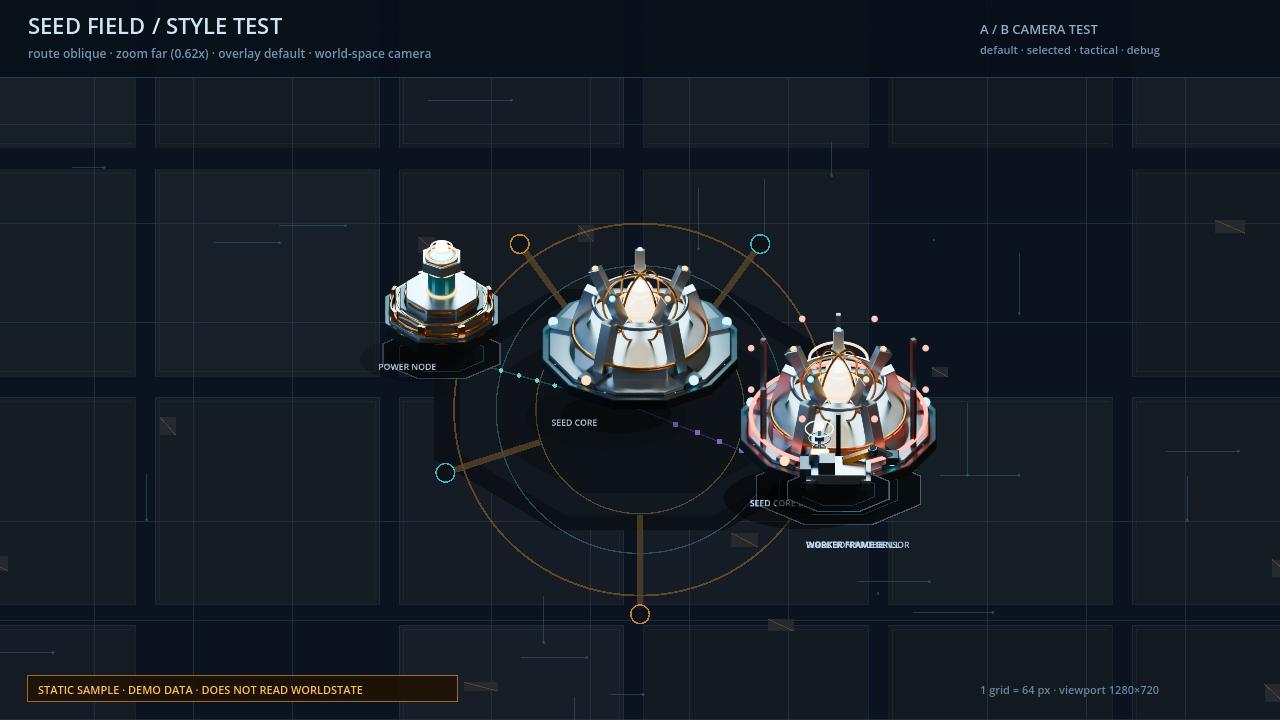
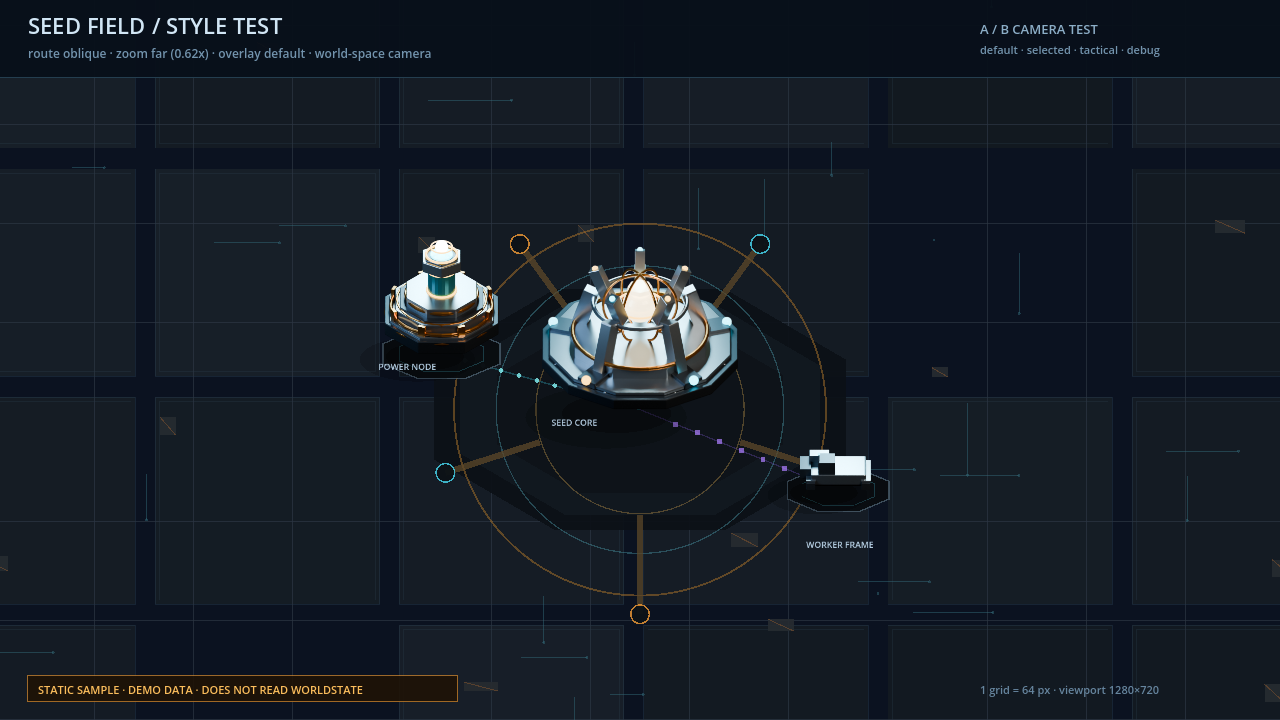
fix(game): SeedField 审查修复样式场景与模块截图
StyleTest now loads only the three canonical A/B objects, so module/core-state variants cannot stack on one anchor. Module capture upgrades the scout before shooting. GetCore(Absent) returns null, control-point labels are no longer built per frame, the ellipse helper is shared, and style capture creates its output directory.

Direction sheet falls back when gitignored render metadata is absent.

Changed region(s): [[0.5625, 0.4583, 0.75, 0.7639]]

diff --git a/tools/make_art_sheets.py b/tools/make_art_sheets.py
@@ -152,12 +152,16 @@ def zoom_sheet() -> None:
 
 
 def direction_sheet() -> None:
-    report = json.loads(
-        (ROOT / "art/generated/style_oblique/render-report-oblique.json").read_text(
-            encoding="utf-8"
+    report_path = ROOT / "art/generated/style_oblique/render-report-oblique.json"
+    seconds = None
+    if report_path.exists():
+        report = json.loads(report_path.read_text(encoding="utf-8"))
+        probe = next(
+            (asset for asset in report["assets"] if asset["name"] == "direction_probe"),
+            None,
         )
-    )
-    probe = next(asset for asset in report["assets"] if asset["name"] == "direction_probe")
+        seconds = probe["seconds"] if probe else None
+
     frames = sorted(
         (path for path in (ART / "style_oblique").glob("direction_probe_oblique_*.png")),
         key=lambda path: path.name,
@@ -173,7 +177,8 @@ def direction_sheet() -> None:
     label(
         draw,
         (padding, 56),
-        f"asymmetric drill frame · 512px · {probe['seconds']}s for 16 frames",
+        "asymmetric drill frame · 512px"
+        + (f" · {seconds}s for 16 frames" if seconds is not None else ""),
         13,
         MUTED,
     )

diff --git a/game/SeedField.Game/Scripts/Main.Presentation.cs b/game/SeedField.Game/Scripts/Main.Presentation.cs
@@ -84,8 +84,7 @@ public partial class Main
                 this,
                 _world.ControlPoints.Values.Select(point => (
                     point.Position,
-                    point.RadiusMm,
-                    point.Id.Replace("relay-", string.Empty).ToUpperInvariant())),
+                    point.RadiusMm)),
                 Map,
                 MapScale);
         }
@@ -264,9 +263,16 @@ public partial class Main
     private void ConfigureModuleSwapCapture()
     {
         ResetScenario(peaceful: true, preRun: false);
-        _ = _world.EnumerateEntities().First(entity =>
+        var scout = _world.EnumerateEntities().FirstOrDefault(entity =>
             entity.CivilizationId == "A" &&
             string.Equals(entity.BlueprintId, "scout", StringComparison.Ordinal));
+        if (scout is not null)
+        {
+            var latest = _world.Workshop.GetVersions("scout").Last();
+            _engine.ExecuteDeploymentCommand(new UpgradeCommand("A", scout.Id, latest));
+            UpdateFacing();
+        }
+
         _capturePath = "res://screenshots/art-module-swap.png";
         _paused = true;
         _captureRequested = true;

diff --git a/game/SeedField.Game/Scripts/Presentation/EntityVisual.cs b/game/SeedField.Game/Scripts/Presentation/EntityVisual.cs
@@ -38,7 +38,7 @@ public sealed class EntityVisual
         var size = frame.Footprint * ScreenScale;
         var rect = new Rect2(position - frame.Pivot * size, new Vector2(size, size));
 
-        DrawEllipse(
+        VisualDraw.Ellipse(
             canvas,
             position + new Vector2(-size * 0.12f, size * 0.03f),
             size * 0.28f,
@@ -120,23 +120,4 @@ public sealed class EntityVisual
             color);
     }
 
-    private static void DrawEllipse(
-        CanvasItem canvas,
-        Vector2 center,
-        float radiusX,
-        float radiusY,
-        Color color)
-    {
-        const int segments = 28;
-        var points = new Vector2[segments];
-        for (var index = 0; index < segments; index++)
-        {
-            var angle = Mathf.Tau * index / segments;
-            points[index] = center + new Vector2(
-                Mathf.Cos(angle) * radiusX,
-                Mathf.Sin(angle) * radiusY);
-        }
-
-        canvas.DrawColoredPolygon(points, color);
-    }
 }

diff --git a/game/SeedField.Game/Scripts/Presentation/CoreVisual.cs b/game/SeedField.Game/Scripts/Presentation/CoreVisual.cs
@@ -34,7 +34,7 @@ public sealed class CoreVisual
         var color = StateColor(state);
         var pulse = 0.55f + 0.20f * Mathf.Sin(tick * 0.22f);
 
-        DrawEllipse(
+        VisualDraw.Ellipse(
             canvas,
             position + new Vector2(-size * 0.10f, size * 0.02f),
             size * 0.36f,
@@ -82,23 +82,4 @@ public sealed class CoreVisual
         _ => new Color(0.95f, 0.78f, 0.40f),
     };
 
-    private static void DrawEllipse(
-        CanvasItem canvas,
-        Vector2 center,
-        float radiusX,
-        float radiusY,
-        Color color)
-    {
-        const int segments = 28;
-        var points = new Vector2[segments];
-        for (var index = 0; index < segments; index++)
-        {
-            var angle = Mathf.Tau * index / segments;
-            points[index] = center + new Vector2(
-                Mathf.Cos(angle) * radiusX,
-                Mathf.Sin(angle) * radiusY);
-        }
-
-        canvas.DrawColoredPolygon(points, color);
-    }
 }

diff --git a/game/SeedField.Game/Scripts/Presentation/VisualDraw.cs b/game/SeedField.Game/Scripts/Presentation/VisualDraw.cs
@@ -1,0 +1,27 @@
+using Godot;
+
+namespace SeedField.Game;
+
+/// <summary>Shared primitives for presentation drawing.</summary>
+public static class VisualDraw
+{
+    public static void Ellipse(
+        CanvasItem canvas,
+        Vector2 center,
+        float radiusX,
+        float radiusY,
+        Color color,
+        int segments = 28)
+    {
+        var points = new Vector2[segments];
+        for (var index = 0; index < segments; index++)
+        {
+            var angle = Mathf.Tau * index / segments;
+            points[index] = center + new Vector2(
+                Mathf.Cos(angle) * radiusX,
+                Mathf.Sin(angle) * radiusY);
+        }
+
+        canvas.DrawColoredPolygon(points, color);
+    }
+}

diff --git a/game/SeedField.Game/Scripts/StyleTestWorld.cs b/game/SeedField.Game/Scripts/StyleTestWorld.cs
@@ -77,6 +77,14 @@ public partial class StyleTestWorld : Node2D
 
             var assetId = entry["assetId"].AsString();
             var name = assetId.Split('.')[0];
+            // The style test compares the three canonical objects. State variants
+            // and module variants would stack on the same anchor and hide each
+            // other, so they are reviewed on their own sheets instead.
+            if (name is not ("power_node" or "seed_core" or "worker_frame"))
+            {
+                continue;
+            }
+
             var files = entry["files"].AsGodotArray();
             if (files.Count == 0)
             {

diff --git a/game/SeedField.Game/Scripts/VisualBench.cs b/game/SeedField.Game/Scripts/VisualBench.cs
@@ -14,7 +14,6 @@ public partial class VisualBench : Node2D
     private const int ViewHeight = 720;
     private const float BenchScale = 0.15f;
 
-    private readonly List<Sprite2D> _sprites = new();
     private int _devices = 10;
     private bool _masks = true;
     private float _seconds = 5f;
@@ -178,7 +177,6 @@ public partial class VisualBench : Node2D
                 cellX * (column + 0.5f),
                 70f + cellY * (row + 0.5f));
             AddChild(sprite);
-            _sprites.Add(sprite);
 
             if (_masks && frame.Emissive is not null)
             {

diff --git a/game/SeedField.Game/Scripts/Presentation/VisualAssetCatalog.cs b/game/SeedField.Game/Scripts/Presentation/VisualAssetCatalog.cs
@@ -98,6 +98,7 @@ public sealed class VisualAssetCatalog
 
     public VisualAssetFrame? GetCore(CoreVisualState state) => state switch
     {
+        CoreVisualState.Absent => null,
         CoreVisualState.Regenerating => Get("seed_core_regenerating"),
         CoreVisualState.Bootstrap => Get("seed_core_bootstrap"),
         CoreVisualState.Besieged => Get("seed_core_besieged"),

diff --git a/game/SeedField.Game/Scripts/StyleTest.cs b/game/SeedField.Game/Scripts/StyleTest.cs
@@ -69,6 +69,7 @@ public partial class StyleTest : Node2D
 
         var path = ProjectSettings.GlobalizePath(
             $"res://screenshots/art-{_route}-{_zoom}-{_overlay}.png");
+        Directory.CreateDirectory(Path.GetDirectoryName(path)!);
         var exitCode = 0;
         var image = GetViewport().GetTexture().GetImage();
         if (image is null)

diff --git a/game/SeedField.Game/Scripts/Presentation/TacticalOverlay.cs b/game/SeedField.Game/Scripts/Presentation/TacticalOverlay.cs
@@ -70,7 +70,7 @@ public static class TacticalOverlay
 
     public static void DrawControlPointRadii(
         CanvasItem canvas,
-        IEnumerable<(Vec2 Position, int RadiusMm, string Label)> points,
+        IEnumerable<(Vec2 Position, int RadiusMm)> points,
         Func<Vec2, Vector2> map,
         float mapScale)
     {
